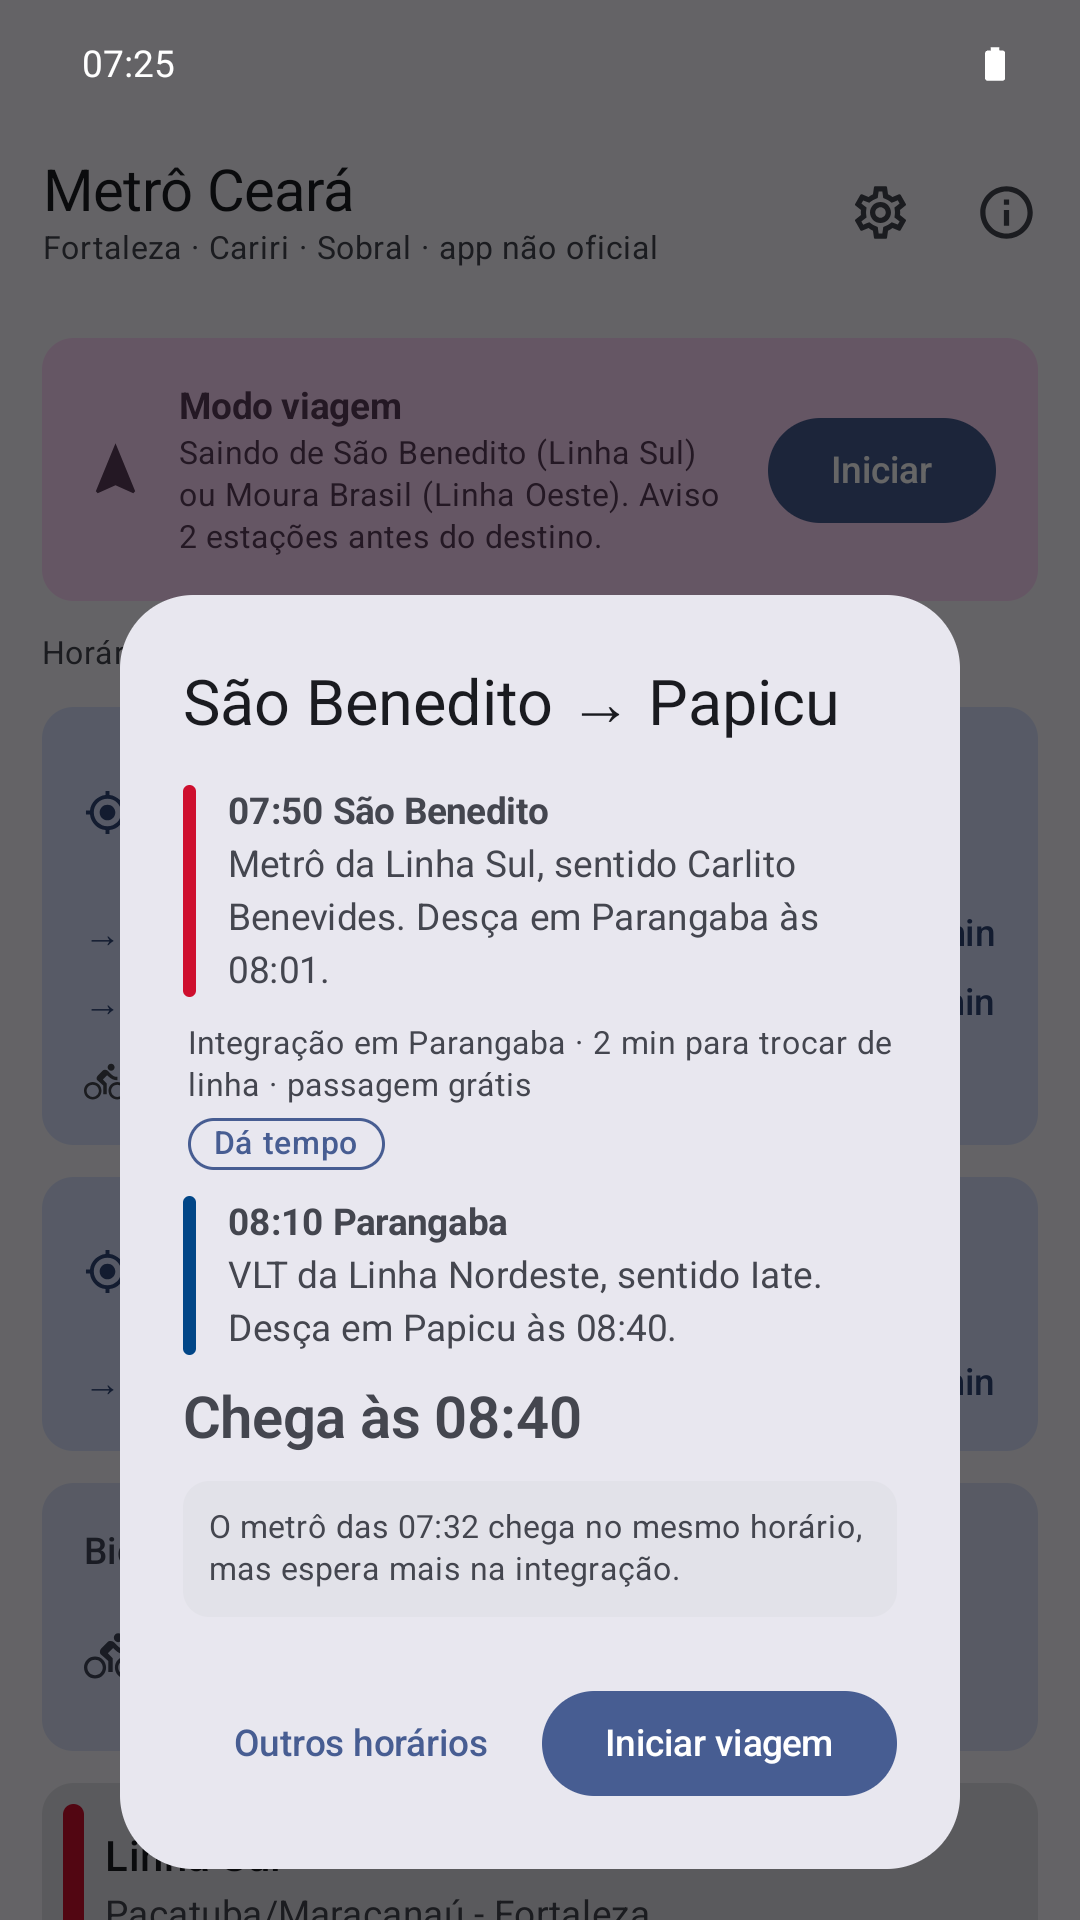
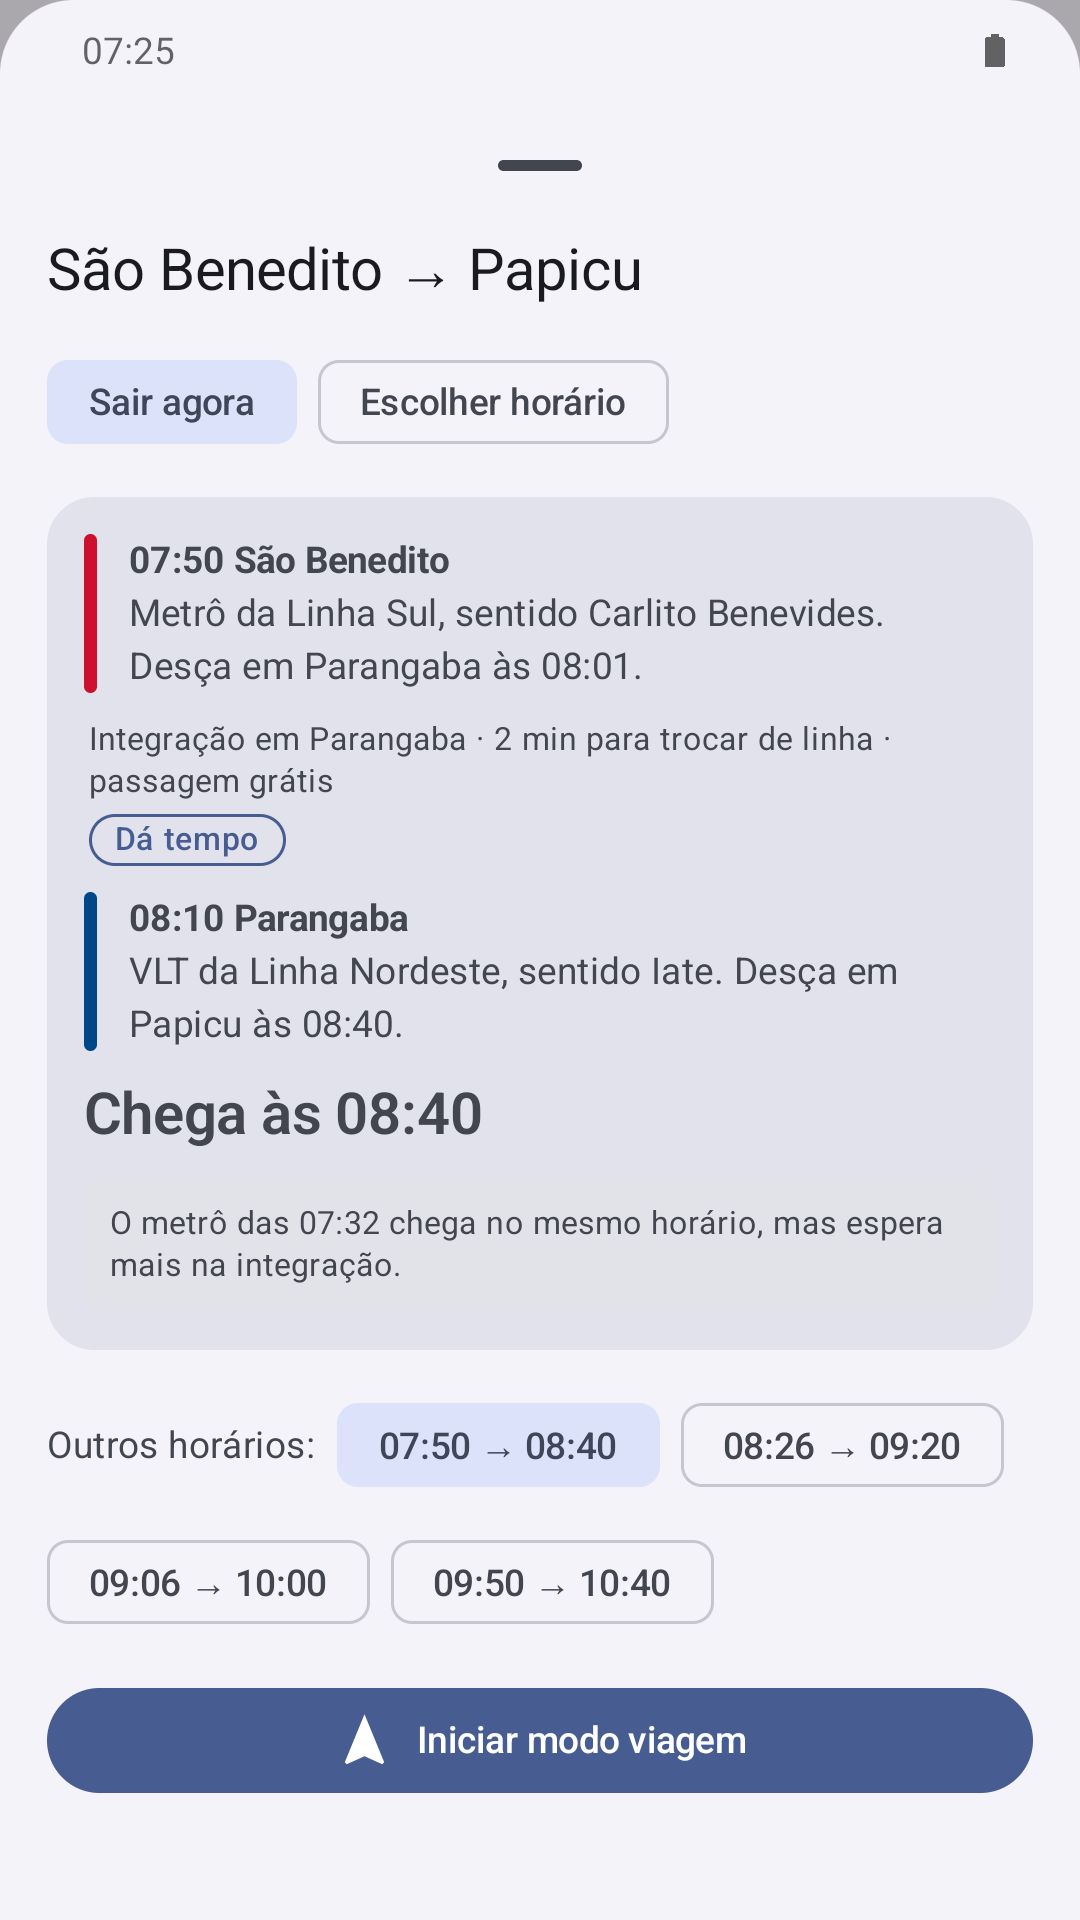
Capturas 1, 2 e 6 refeitas com a barra "Para onde você vai?" e o resultado novo
Tela inicial sem o cartão Modo viagem, estação com "Ir daqui para outra
estação" e o roteiro São Benedito → Papicu na folha do resultado, na loja,
no fastlane e na página.

diff --git a/tools/video/README.md b/tools/video/README.md
@@ -68,6 +68,11 @@ As telas vêm do emulador Android, com o sistema em pt-BR
   e posição estação por estação até Couto Fernandes; o cartão expandido da
   notificação é recortado da barra de notificações e colado no topo. Todas são
   cortadas de 1080×2400 para 1080×1920.
+  **Na 1.60** a 1, a 2 e a 6 (tela inicial com "Para onde você vai?", estação
+  com "Ir daqui para outra estação" e o resultado São Benedito → Papicu) foram
+  refeitas com `wm size 1080x1920` em vez do corte, para a folha do resultado
+  caber inteira (depois, `wm size reset`). O ícone de GPS da barra de status e a
+  barra de gestos foram cobertos com a cor do fundo, com Pillow.
 - **App Android (gravação):** `adb shell screenrecord`, o modo demo do
   SystemUI para a barra de status, e a viagem simulada com `date` +
   `emu geo fix` a cada estação: é o que `gravar_viagem.sh` faz.
